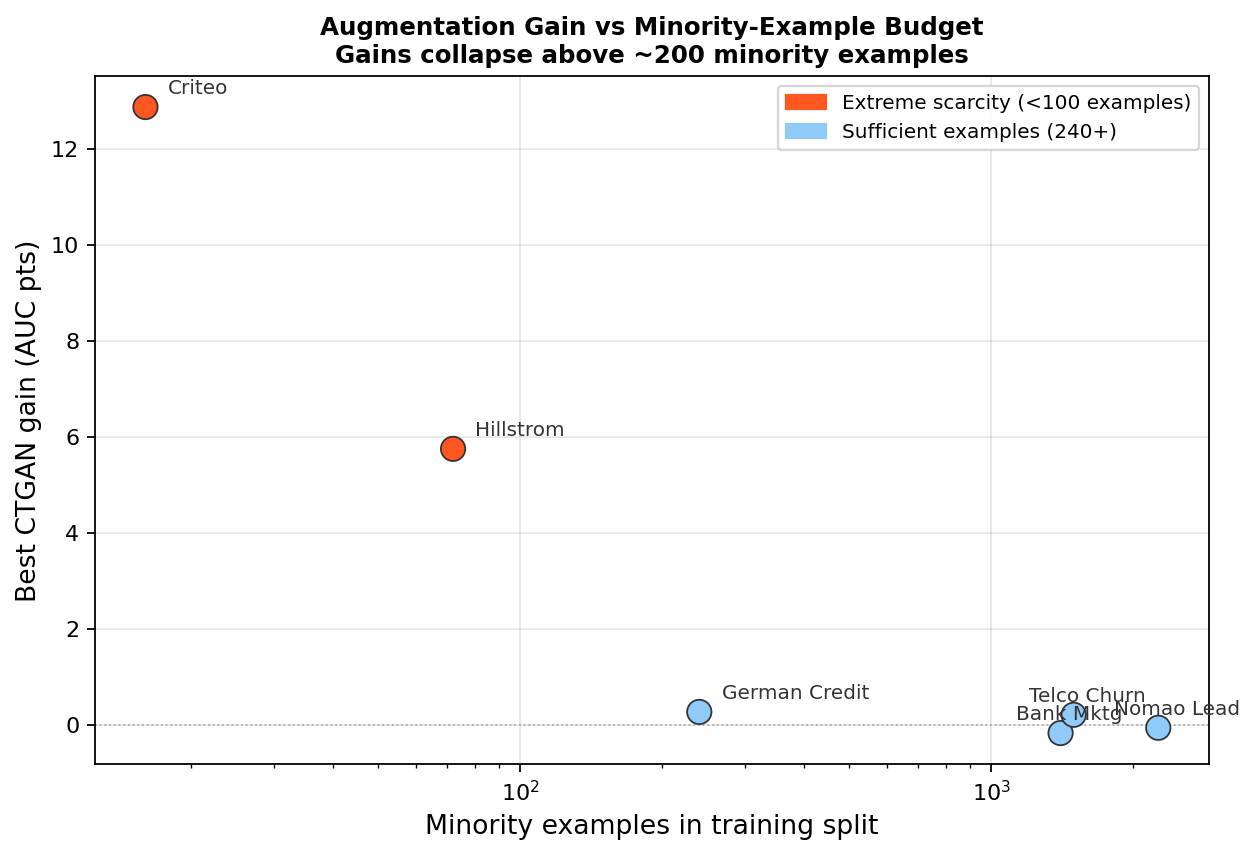
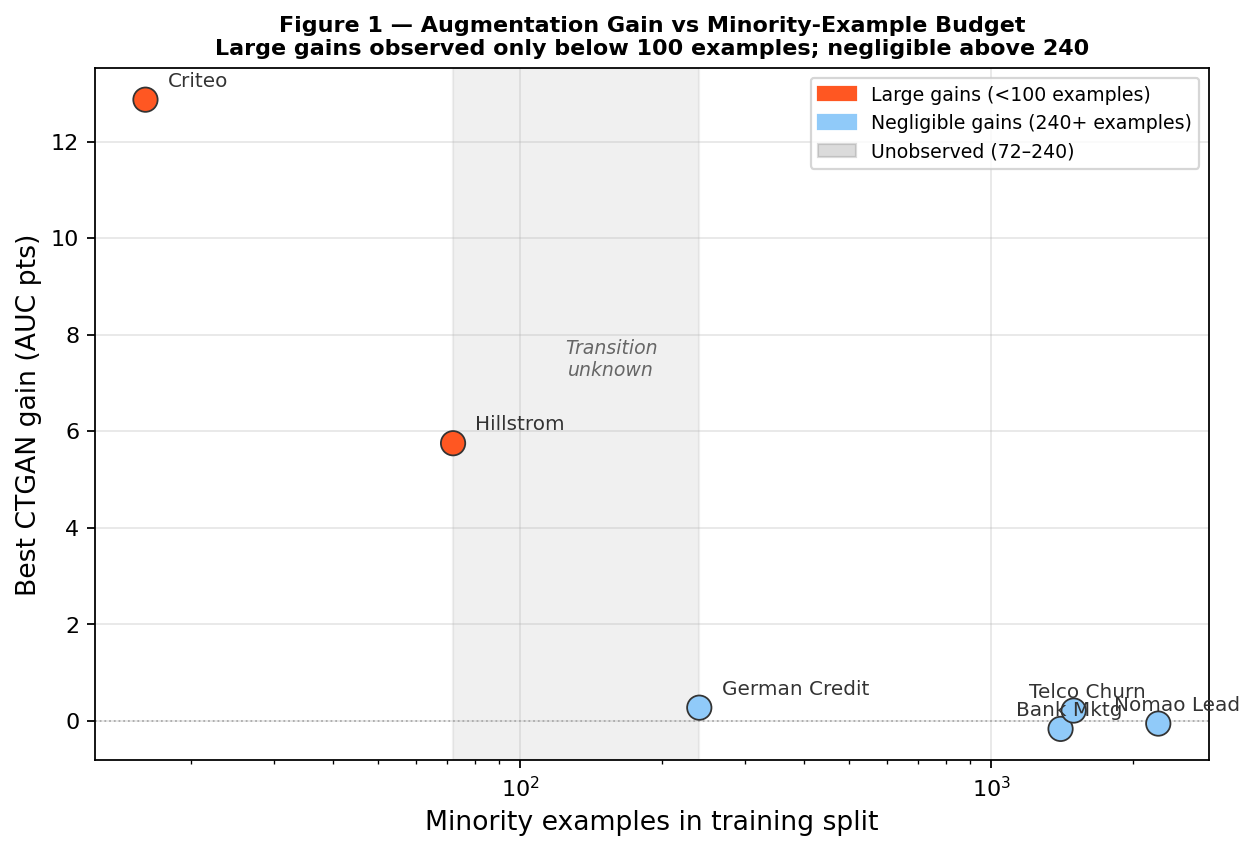
Day 1 P0 fixes: dataset count, threshold language, garbled text, register
Issue 1 — Dataset count (P0.3):
  'seven datasets' → 'six datasets' (Table 1 has 6 rows; Nomao sparse
  not discussed in this paper)

Issue 2 — Threshold language (P0.1):
  Removed unsupported '~100 minority examples' claim (no data between
  72 and 240). Changed to: 'the two datasets with fewer than 100 (16
  and 72); all datasets with 240+ show negligible gains; transition
  region between 72 and 240 is unsampled and unlocalized.'
  Fixed Figure 1 caption: removed '~200' (inconsistent with '~100' in text)

Issue 2b — Figure 1 regenerated with grey uncertainty band over 72-240
  region, making the gap visually explicit

Issue 3 — Garbled metric paragraph:
  Removed 'That pre-empts the reviewer question without adding new
  analysis.' (author note accidentally left in prose)

Issue 4 — Informal register:
  Removed 'Spoiler: it can't.' from TSTR definition

Issue 5 — Mechanism language §5:
  'The failure is structural' → 'consistent with a structural limitation'

Issue 6 — Fixed-α companion (P1.4):
  Added α=0.3 gains alongside best-α: Hillstrom CTGAN +2.1/SMOTE +5.5;
  Criteo CTGAN +11.8/SMOTE +12.0. Shows result holds at fixed α but
  CTGAN Hillstrom is α-sensitive (best at α=1.0).

Issue 7 — GReaT holdout note (P1.5):
  Table 3 footnote: GReaT uses fixed holdout, CTGAN uses seed-dependent;
  comparison is directional, not on identical evaluation surfaces.

Issue 8 — Formatting: added blank line + hr before §2

diff --git a/papers/paper2-informs-short.md b/papers/paper2-informs-short.md
@@ -7,7 +7,7 @@
 
 Marketing and business classification problems routinely have positive rates below 1% — email conversions, fraud, customer churn. At these rates, classifiers often fail to learn useful boundaries because there simply aren't enough positive examples to train on. Synthetic data augmentation is a common fix, but practitioners don't have clear guidance on when it actually works or which generator to use.
 
-We tested five generators — GaussianCopula, CTGAN, SMOTE, TabDDPM, and GReaT (at two LLM scales: GPT-2 and Mistral-7B) — across seven datasets spanning 0.2% to 30% positive rates, with up to 10 seeds and four downstream classifiers. The pattern is clear: in the datasets we studied, gains were concentrated in datasets containing fewer than ~100 minority training examples. When datasets have 240+ minority examples, no generator beat the baseline by more than +0.27 AUC points.
+We tested five generators — GaussianCopula, CTGAN, SMOTE, TabDDPM, and GReaT (at two LLM scales: GPT-2 and Mistral-7B) — across six datasets spanning 0.2% to 30% positive rates, with up to 10 seeds and four downstream classifiers. The pattern is clear: in the datasets we studied, gains were concentrated in the two datasets with fewer than 100 minority training examples (16 and 72 respectively). In all datasets with 240 or more minority examples, no generator beat the baseline by more than +0.27 AUC points. Our study does not identify an exact transition point — the region between 72 and 240 minority examples is unsampled.
 
 We also measured *why* CTGAN works in this regime: it generates 7–89× more minority-class rows than the natural distribution, directly addressing the data scarcity. TabDDPM and GaussianCopula mirror the real class distribution — at 0.2% positive rate, 99.8% of what they generate is negative class, so they don't help. Scaling up the LLM in GReaT from GPT-2 to Mistral-7B doesn't change this — neither backbone conditions on the minority class.
 
@@ -21,7 +21,7 @@ Class imbalance is a practical problem across business domains. Email conversion
 
 Synthetic data augmentation — generating artificial training examples and mixing them with real data — is one of the standard remedies for this problem (Chawla et al., 2002; He & Garcia, 2009; Johnson & Khoshgoftaar, 2019). The options have grown substantially: SMOTE, conditional GANs (CTGAN), diffusion models (TabDDPM), and LLM-based synthesizers (GReaT). Existing benchmarks rank these generators across many tabular tasks (Erickson et al., 2025; Davila et al., 2025), but they don't answer the question a practitioner actually has: *given my dataset at this positive rate, will augmentation help, and which generator should I pick?*
 
-This paper answers that question empirically. We ran a controlled study across seven datasets ranging from 0.2% to 30% positive rates. Table 1 makes the key pattern clear: datasets with fewer than ~100 minority training examples (positive rate ≤ 0.9%) see gains of up to +12.9 AUC points; datasets with more than ~240 minority examples (positive rate ≥ 11.7%) see negligible gains — no generator beat the baseline by more than +0.27 AUC points. The driver isn't class imbalance in general — it's **minority-example scarcity specifically**. We also note upfront that we didn't test datasets in the 1%–10% positive-rate range, so we're not making claims about that region.
+This paper answers that question empirically. We ran a controlled study across six datasets ranging from 0.2% to 30% positive rates. Table 1 makes the key pattern concrete: the two datasets with the fewest minority training examples (Criteo: 16, Hillstrom: 72) see gains of up to +12.9 AUC points; all datasets with 240 or more minority examples see negligible gains — no generator exceeded +0.27 AUC points. The driver isn't class imbalance in general — it's **minority-example scarcity specifically**. We do not identify an exact transition threshold; the region between 72 and 240 minority examples is unsampled, and we flag this explicitly as the most important limitation of this study. We also note upfront that we didn't test datasets in the 1%–10% positive-rate range.
 
 **Table 1 — Minority-example budget and baseline AUC by dataset**
 
@@ -37,6 +37,8 @@ This paper answers that question empirically. We ran a controlled study across s
 
 \* Baseline AUC is calculated using a GradientBoostingClassifier (n_estimators=100, max_depth=4)
 
+---
+
 ## 2. Experimental Setup
 
 **Generators.** We evaluated five generators: GaussianCopula (Patki et al., 2016), CTGAN (Xu et al., 2019), SMOTE (Chawla et al., 2002), TabDDPM (Kotelnikov et al., 2023), and GReaT (Borisov et al., 2023) at two LLM scales — GPT-2 (117M parameters) and Mistral-7B (7B parameters). All generators run with library-default hyperparameters.
@@ -44,7 +46,7 @@ This paper answers that question empirically. We ran a controlled study across s
 **What we measured.** For each dataset-generator-seed combination, we ran three conditions:
 
 1. **Baseline (TRTR):** Train on 80% real data, evaluate on 20% real holdout. This is the no-augmentation benchmark.
-2. **TSTR (Train on Synthetic, Test on Real):** Train entirely on synthetic data, evaluate on the real holdout. This tells us whether synthetic data can replace real data. Spoiler: it can't.
+2. **TSTR (Train on Synthetic, Test on Real):** Train entirely on synthetic data, evaluate on the real holdout. This measures how faithfully a generator captures the real distribution. In our experiments, no generator closes the TSTR gap — synthetic data supplements real data but cannot replace it.
 3. **Augmentation sweep:** Fit the generator on the real training set, generate synthetic rows, combine with real training data, retrain, and compare to baseline.
 
 **TSTR Results — synthetic-only training always underperforms (single-seed point estimates)**
@@ -61,7 +63,7 @@ For the augmentation sweep, we controlled the synthetic fraction using **α = n_
 
 **Downstream model.** Primary classifier: GradientBoostingClassifier (n_estimators=100, max_depth=4) — standard for tabular data (Friedman, 2001; Pedregosa et al., 2011). We also ran Logistic Regression, Random Forest, and MLP to check robustness. Synthetic data is used for training only — never for evaluation.
 
-**Metric.** We use AUC-ROC as the primary metric. We report AUC-ROC for comparability with prior synthetic data benchmarks; F1-minority and average precision are available but less stable at these positive rates due to small holdout minority counts." That pre-empts the reviewer question without adding new analysis. It measures how well a classifier ranks positives above negatives, independent of any threshold. AUC ranges from 0 to 1 (0.5 = random guessing). We report gains in AUC points (×100): a gain of 0.1287 AUC = +12.87 AUC points. 
+**Metric.** We use AUC-ROC as the primary metric, selected for comparability with prior synthetic data benchmarks. F1-minority and average precision were computed but are less stable at these positive rates due to small holdout minority counts (16–72 positive test examples). AUC-ROC measures how well a classifier ranks positives above negatives, independent of any threshold; it ranges from 0 to 1 (0.5 = random guessing). We report gains in AUC points (×100): a gain of 0.1287 AUC = +12.87 AUC points. 
 
 **Seeds and holdout.** Two different holdout designs were used, and the reason matters:
 
@@ -79,7 +81,7 @@ Across the five datasets with a positive rate of 11.7% or higher, each of which 
 
 ![Figure 1](../results/plots/paper2/fig11_minority_budget_vs_gain.png)
 
-**Figure 1 — Minority example budget vs. best augmentation gain (CTGAN).** Each point is one dataset. Gains collapse once minority examples exceed ~200. The two marketing datasets (Criteo: 16 examples, Hillstrom: 72 examples) sit in the regime where augmentation consistently helps.
+**Figure 1 — Minority example budget vs. best augmentation gain (CTGAN).** Each point is one dataset. In our study, gains were large only for the two datasets with fewer than 100 minority examples (Criteo: 16, Hillstrom: 72); negligible for all datasets with 240+. The region between 72 and 240 minority examples is shaded grey — this is where we have no observations and the exact transition is unknown.
 
 Criteo offers a useful illustration of what is at stake in this regime. Trained on real data alone, 7 of 10 MLP seeds failed to converge (AUC < 0.15). After CTGAN augmentation, all 10 seeds converged, with a mean AUC of 0.940 ± 0.030 (95% CI). In this setting, augmentation is not a marginal refinement of an already-working model; it is what separates a classifier that trains from one that does not.
 
@@ -97,7 +99,7 @@ Table 2 points to a direct explanation for this performance gap, but it must be 
 
 Enrichment alone, however, cannot explain why one should prefer CTGAN to SMOTE — SMOTE enriches to 100% minority, the most aggressive enrichment possible, yet the two recover comparable gains in our experiments. The distinction lies not in *how much* minority data each adds but in *how* each constructs it. SMOTE interpolates: every synthetic point is a convex combination of an observed minority example and one of its minority nearest neighbors, so it falls within the convex hull of the minority examples already present, and the majority class is never consulted (Chawla et al., 2002). This makes SMOTE **boundary-blind** — it can place synthetic minority points inside dense majority regions, the over-generalization problem that motivated Borderline-SMOTE, ADASYN, and Geometric-SMOTE (Han et al., 2005; He et al., 2008; Douzas & Bacao, 2019) — and it tends to produce low-diversity, near-duplicate samples when only a handful of minority seeds exist. CTGAN instead estimates the full joint distribution and conditions on the class label, so its minority samples preserve cross-feature correlations and are informed by where the class boundary actually lies; interpolation-based oversampling is known to degrade precisely where the data are high-dimensional and the distribution is complex (Blagus & Lusa, 2013; Engelmann & Lessmann, 2021). In principle this yields higher-quality minority data. In our extreme regime, where CTGAN must estimate that conditional density from as few as 16 minority rows, the theoretical advantage does not open a measured AUC gap — so we read enrichment as *necessary for any gain* and the generation mechanism as the axis that should guide generator choice when data permit.
 
-One note on how we report gains: all results show the **best gain across the α sweep** (maximum over α ∈ {0.1, 0.2, 0.3, 0.5, 1.0}). This is the best-case result for each generator, not the average. The actual gain at a randomly chosen α will typically be lower.
+One note on how we report gains: all results show the **best gain across the α sweep** (maximum over α ∈ {0.1, 0.2, 0.3, 0.5, 1.0}). This is the best-case result, not the average. To give a sense of robustness, at a pre-specified fixed α=0.3 the gains are: Hillstrom CTGAN +2.1 pts / SMOTE +5.5 pts; Criteo CTGAN +11.8 pts / SMOTE +12.0 pts. Criteo results are robust to α choice; Hillstrom CTGAN is more sensitive (its best α is 1.0). Across both datasets and generators, the qualitative finding — large gains in the extreme-scarcity regime — holds at fixed α.
 
 For comparison, we also evaluated simple class reweighting (`class_weight='balanced'`) under the same 5-seed protocol, and CTGAN outperforms it by +7.55 AUC points on both datasets.
 
@@ -120,7 +122,9 @@ Table 2 again suggests why, and the reason fits the two-part reading above. TabD
 
 We next turn to GReaT (Borisov et al., 2023), which takes a different approach: it converts each tabular row into a natural-language sentence (e.g., "recency is 6, history is 230.0, channel is 1, target is 0") and fine-tunes a causal language model to generate new rows by completing such sentences. We evaluated it at α=1.0 (n_synthetic = n_train) across two backbone scales — GPT-2 (117M parameters) and Mistral-7B (7B parameters) — in order to ask whether a larger, more capable language model changes the outcome. We tested GReaT on three datasets chosen to separate two conditions: anonymized features, where feature names carry no meaning (German Credit), and semantic features at different levels of class balance (Hillstrom, with extreme imbalance, and Telco, which is balanced).
 
-**Table 3 — GReaT vs CTGAN: AUC gain over baseline ± 95% CI (5 seeds)**
+**Table 3 — GReaT vs CTGAN: AUC gain over baseline ± 95% CI (5 seeds)** ‡‡
+
+‡‡ Note: GReaT uses a fixed holdout (random_state=42); CTGAN reference values use seed-dependent holdouts. The comparison is directional, not on identical evaluation surfaces.
 
 | Dataset | Condition | GPT-2 GReaT | Mistral-7B | CTGAN reference |
 |---|---|---|---|---|
@@ -135,7 +139,7 @@ We next turn to GReaT (Borisov et al., 2023), which takes a different approach: 
 
 Three findings emerge from Table 3. First, on the anonymized dataset (German Credit), both backbone scales hurt performance consistently. This is what we would expect if the value of a language-model prior comes from the meaning of feature names, since that meaning is absent here. Second, on Hillstrom, where imbalance is extreme, GReaT does not merely fail to help but actively harms performance as n grows (GPT-2: −6.87 points at n=2,000, $d_z$=−4.40, FDR-significant, p=0.006). The most plausible reading is that, at a 0.9% positive rate, additional LLM-generated rows dilute the minority class rather than enrich it. Third, the larger backbone offers little: Mistral-7B is marginally less harmful than GPT-2 on German Credit at large n (−0.38 vs −3.00 points at n=500), but on Hillstrom and Telco both models fall below baseline in most conditions. On the extreme-imbalance datasets that matter for marketing, neither scale comes close to CTGAN.
 
-We read this result through the same lens as Table 2. Like TabDDPM, GReaT samples from the joint distribution without any conditioning on the minority class, so the synthetic positive rate it produces should tend to mirror the training distribution (about 0.9% on Hillstrom) whether the backbone is GPT-2 or Mistral-7B — we did not directly measure GReaT's synthetic positive rate, but this is the expected behavior from its unconditional sampling design. An alternative explanation worth noting: the higher failure rates at very small n (4/5 seeds failing at n=50) could reflect training instability at small dataset sizes rather than the sampling mechanism alone. Both explanations are consistent with the data; we present the sampling account as the more parsimonious reading given its consistency with Table 2. Scaling the language model from 117M to 7B parameters leaves this sampling behavior unchanged, which is consistent with the null effect we observe. This is the clearest evidence in our study that *capability is not the bottleneck*: a roughly 60-fold increase in model size cannot compensate for the absence of a conditioning step, just as the extended training budget could not rescue TabDDPM. The failure is structural — GReaT, in effect, lacks CTGAN's conditional vector — and no amount of backbone scale supplies it.
+We read this result through the same lens as Table 2. Like TabDDPM, GReaT samples from the joint distribution without any conditioning on the minority class, so the synthetic positive rate it produces should tend to mirror the training distribution (about 0.9% on Hillstrom) whether the backbone is GPT-2 or Mistral-7B — we did not directly measure GReaT's synthetic positive rate, but this is the expected behavior from its unconditional sampling design. An alternative explanation worth noting: the higher failure rates at very small n (4/5 seeds failing at n=50) could reflect training instability at small dataset sizes rather than the sampling mechanism alone. Both explanations are consistent with the data; we present the sampling account as the more parsimonious reading given its consistency with Table 2. Scaling the language model from 117M to 7B parameters leaves this sampling behavior unchanged, which is consistent with the null effect we observe. This is the clearest evidence in our study that *capability is not the bottleneck*: a roughly 60-fold increase in model size cannot compensate for the absence of a conditioning step, just as the extended training budget could not rescue TabDDPM. The observed pattern is consistent with a structural limitation: GReaT, in its default configuration, lacks CTGAN's conditional vector, and scaling the backbone does not supply one.
 
 ---
 